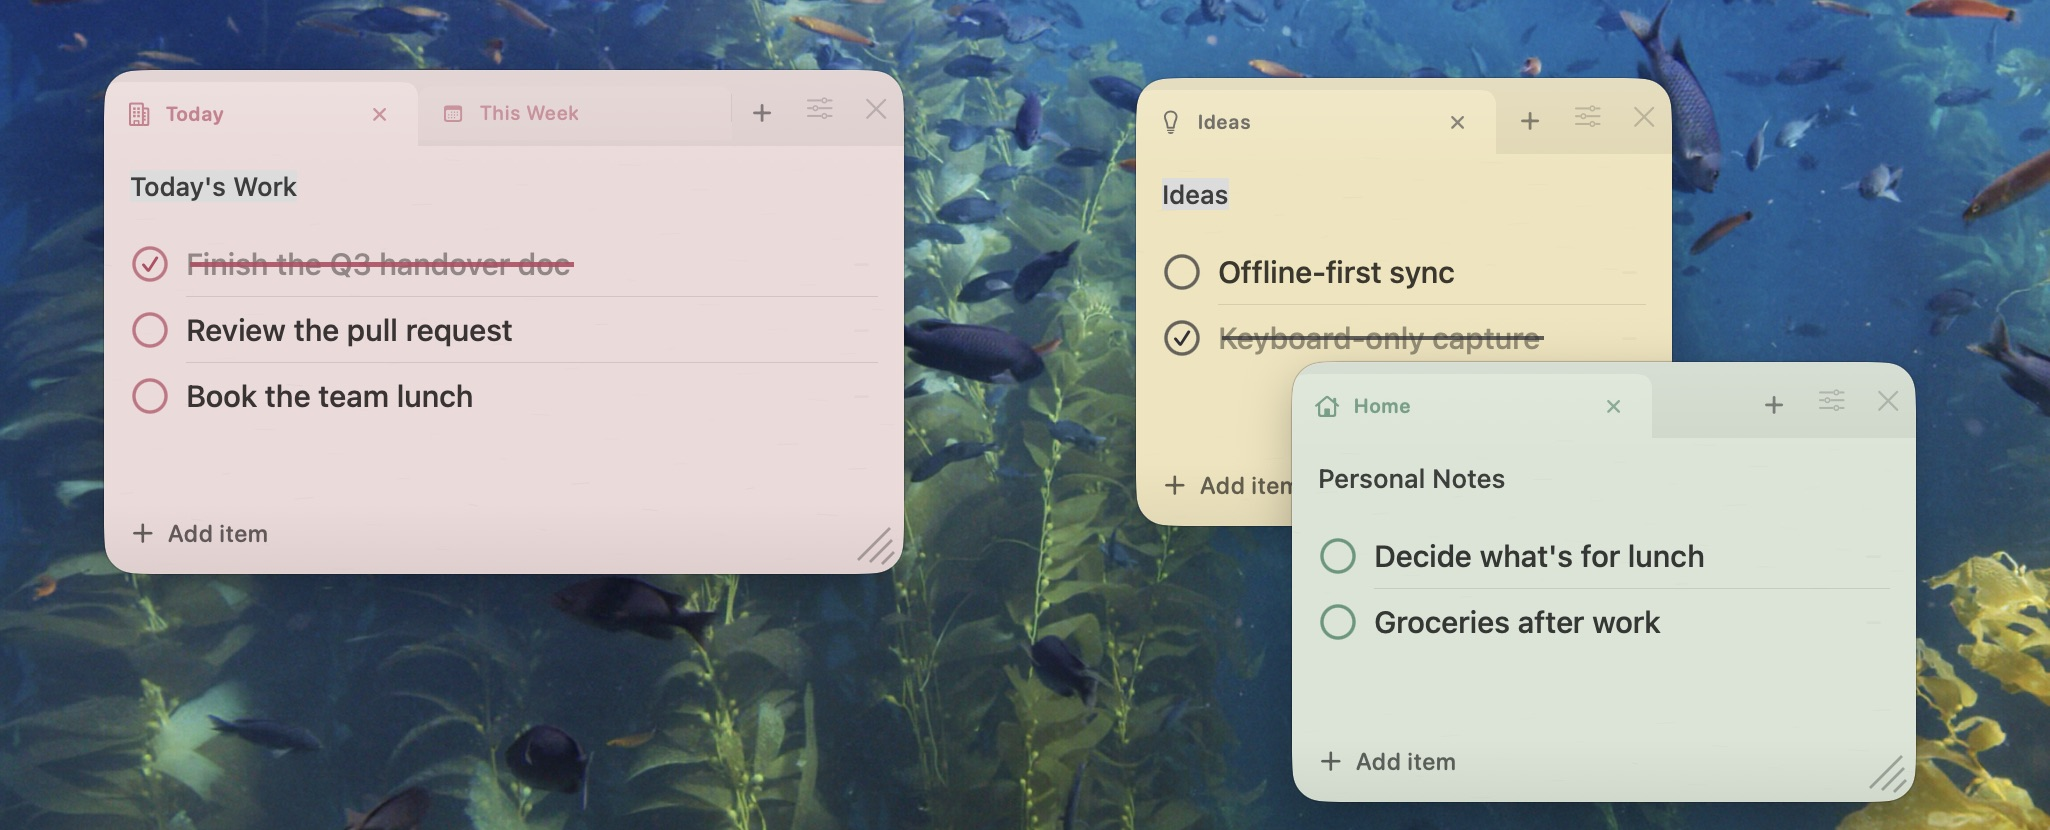
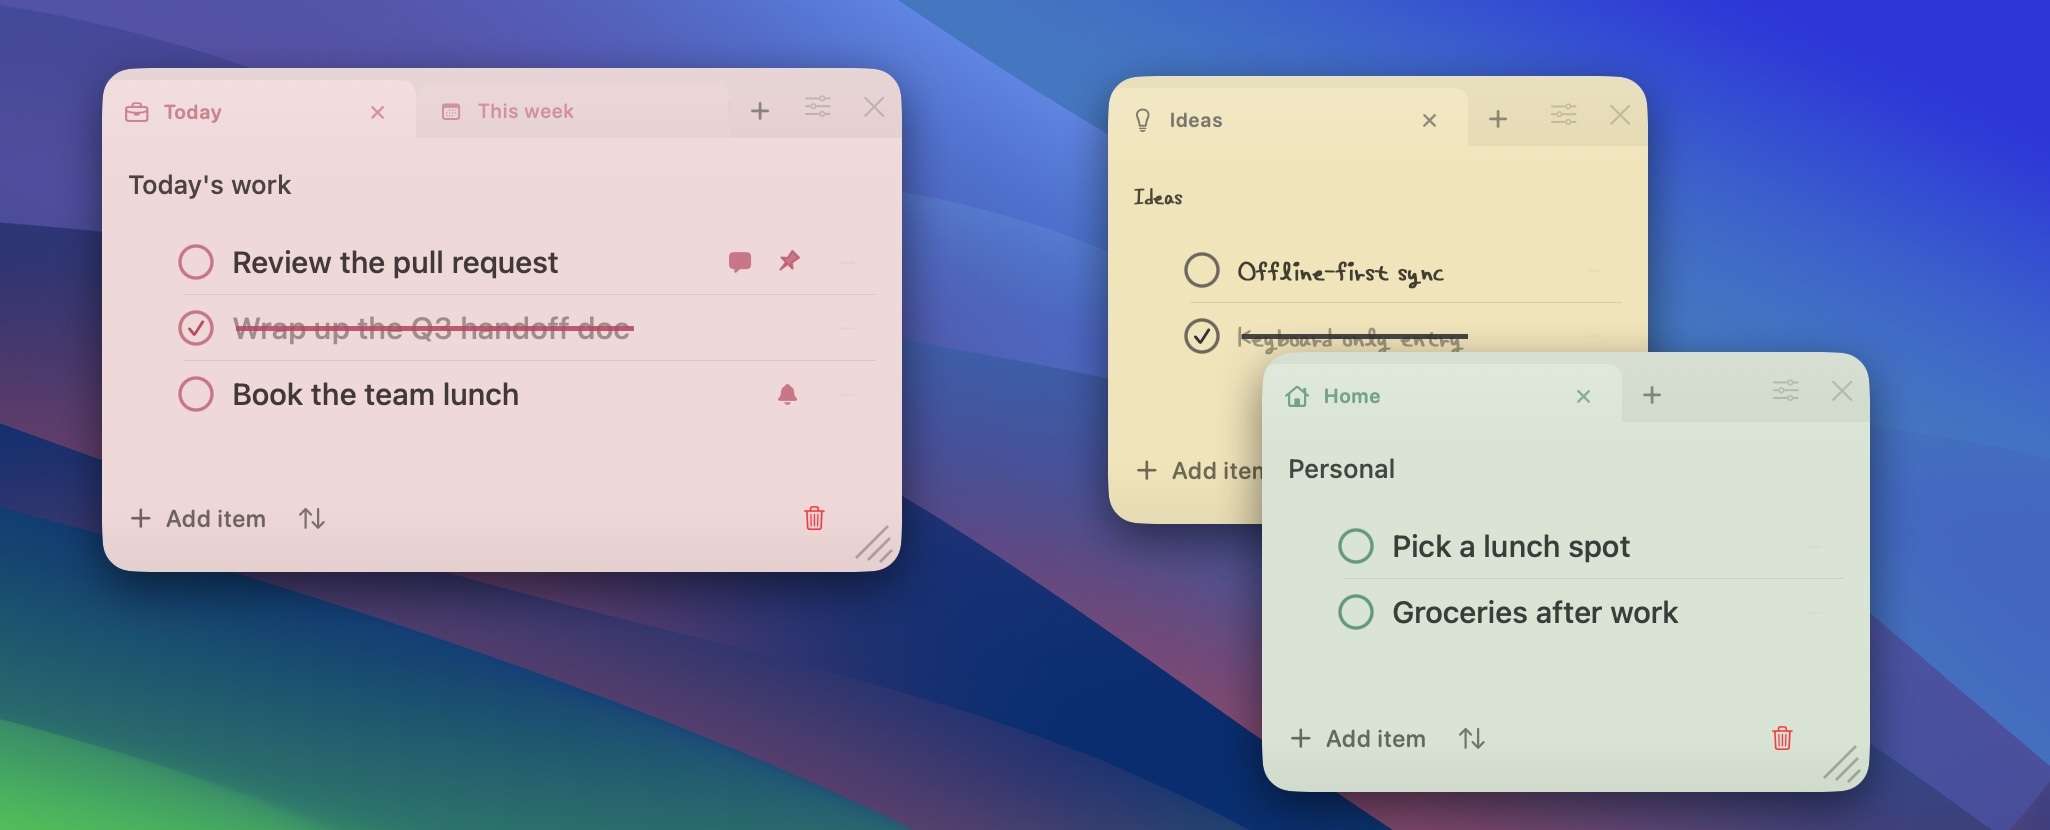
docs(readme): 스크린샷을 v0.2.0 화면으로 교체 + 코드와 어긋난 서술 정정
README 이미지가 출시될 화면과 달랐다. 메모 창과 바탕화면은 9/4(74af827, 93c451d), 설정 창은
8/29(a668d3f) 캡처라 종이의 대시 질감이 남아 있고(d97d869 에서 걷음), 할 일 행의 고정·세부사항·
알림 아이콘과 하단 정렬·휴지통 버튼이 없고, 설정에는 "표시 없음" 과 캡처 제외 토글이 없었다.
본문도 코드와 어긋난 곳이 있었다.

- 탭 바가 "폭을 균등하게 나눠 가로 스크롤이 없다" 고 적혀 있었다. 41fa5a5 부터 탭은 10개까지
  두고 넘치면 스크롤되며, 586d50f 부터 최소 너비에서는 탭 목록 메뉴로 접힌다
- 팝오버에 없는 "빠른 입력" 을 걷고 실제 항목(새 메모, 메모 보기, 앱 잠그기)을 적었다
- "설정은 작게 유지한다" 며 네 가지를 열거하던 문단을 지금의 여덟 섹션에 맞췄다
- 메뉴 막대 숫자 끄기(1783840), 메모를 겹쳐 탭 합치기(95375c0), 새 메모가 작업 중인 화면에
  뜨는 것(a4a9e77), 필통의 폰트·크기와 TTC 임포트(5d676a0), 휴지통 미리보기(0596336), 알림
  본문 설정의 실제 이름을 넣었다
- 흩어져 있던 단축키를 표 하나로 모았다. `NoteKeyboardShortcut` 과 메뉴 명령에 있는 것만 적었다
- 영어판 "pen case" 를 앱 표기(Pencil Case)에 맞추고 "Open folder" 를 버튼 이름 "Open Folder" 로

스크린샷은 실제 메모를 읽지도 쓰지도 않는 사본으로 찍었다. 스크래치 폴더의 소스에서 저장 경로를
임시 폴더로 고정하고, 예전 경로 이전을 끄고, 번들 ID 를 바꿔 설정 도메인을 분리한 Release 빌드에
데모 메모를 스크립트로 넣었다. 메모는 캡처 제외를 끈 채 창 단위(`screencapture -l -o`)로, 설정
창은 제외를 기본값(켬)으로 둔 채 찍었다 — 설정 창 자체는 제외 대상이 아니라 기본값 그대로 보여 줄
수 있다. 스크롤 막대는 데모 앱 도메인에만 `AppleShowScrollBars` 를 넣어 감췄다. 히어로는 세 창을
macOS 기본 배경화면(Sonoma 어두운 변형) 위에 합성했고, 모든 이미지를 sRGB 로 변환해 디스플레이
프로필을 뺐다. 메뉴 막대 아이콘 이미지는 9/4 이후 모양이 그대로라 두었다.

diff --git a/README.md b/README.md
@@ -60,42 +60,57 @@ step is unavoidable for anyone but the person who built the app.
 
 ### Memo windows
 
-<img src="docs/images/posteight-note-en.png" alt="A memo window with two tabs and a completed item struck through" width="300">
+<img src="docs/images/posteight-note-en.png" alt="A memo window with two tabs: a pinned task with a note, a completed task struck through, and a task with a reminder" width="300">
 
-Each memo is its own floating window that remembers where you put it. Inside, a compact
-tab bar splits the memo width evenly — no horizontal scrolling — so one window can hold
-several lists side by side.
+Each memo is its own floating window that remembers where you put it, across displays too.
+Inside, a compact tab bar holds up to ten lists: tabs share the width while they fit, the bar
+scrolls sideways when they don't, and at the narrowest size it folds into a menu of tabs.
 
-- Multiple independent, floating, resizable memo windows
-- Per-memo tabs, renamed inline by clicking the active tab again
+- Multiple independent, floating, resizable memo windows; a new one opens on the screen you are working on
+- Per-memo tabs, renamed inline by clicking the active tab again. Drop a memo onto another to merge their tabs
 - Checklists with an animated pen strike-through on completion
-- Paper colors, pen colors, pen styles, and per-tab icons, all set from the pen case
+- Paper and pen colors, nib, per-tab icons, and the memo's font and text size, all set from the pencil case
 - Closing a memo window — the close button or Esc — only hides it; the memo stays
-- Trash with restore and permanent-delete actions, emptying itself after 30 days
+- Trash with content previews, restore, and permanent delete, emptying itself after 30 days
 
 ### Menu bar
 
 <img src="docs/images/posteight-menubar.png" alt="The Posteight status item, an infinity loop that traces itself as items get done" width="44">
 
 Posteight has no main window. The status item is the only permanent surface: the 8 of
-Posteight drawn as a small infinity loop, with today's count beside it. The loop traces
-itself as items get done and completes when nothing is left. Clicking it opens the popover —
-quick capture, opening memo windows, hiding every memo at once, the trash, settings,
-and quit.
+Posteight drawn as a small infinity loop, with the number of remaining or finished tasks
+beside it — or no number at all. The loop traces itself as items get done and completes when
+nothing is left. Clicking it opens the popover — a new memo, search, showing or hiding every
+memo at once, the trash, locking the app when app lock is on, settings, and quit.
 
-Settings stay small: what the status item counts, whether notes float above other apps,
-whether memos stay out of screen shares and screenshots, and whether Posteight keeps a
-Dock icon. The Dock icon is on by default, so a running Posteight can be reached from the
-Dock and Command-Tab, and clicking it brings the memo windows back. Turning it off leaves
-a menu-bar-only app.
+Settings covers the language, what the status item counts, whether notes stay in front of
+other apps and out of screen shares and screenshots, whether reminders show task text, app
+lock, the default font, storage and backups, and whether Posteight keeps a Dock icon. The
+Dock icon is on by default, so a running Posteight can be reached from the Dock and
+Command-Tab, and clicking it brings the memo windows back. Turning it off leaves a
+menu-bar-only app.
 
 ### Search and organize
 
 - Choose **Search Notes…** in the menu bar to search names, titles, tasks, and details across all tabs. Click a result to open the matching location in its memo.
 - Drag task handles to reorder, or use the context menu to move tasks to another memo. Pin tasks to the top or sort by completion state.
-- Use Command-Z to undo and Shift-Command-Z to redo. Command-A and Command-C select and copy a whole tab when you are not editing a text field; active fields keep their own selection behavior.
-- Schedule reminders for individual tasks. Notifications require permission in the installed app, and task previews are hidden by default.
-- Choose a font and text size in Settings, or import your own font files.
+- Schedule reminders for individual tasks. Notifications require permission in the installed app. They show a short notice instead of the task text unless you turn on **Settings → Reminders → Show task text in notifications**.
+- Set the default font and text size in Settings, or pick a different font and size for one memo from its pencil case. Import your own TTF, OTF, or TTC font files.
+
+### Keyboard shortcuts
+
+| Keys | Action |
+| --- | --- |
+| Command-N | New memo |
+| Command-T | New tab in the current memo |
+| Command-Delete | Move the current tab to the Trash, after confirming |
+| Command-Z / Shift-Command-Z | Undo / redo across the whole memo |
+| Command-A, then Command-C | Select and copy the current tab |
+| Esc | Hide the memo |
+| Command-, | Settings |
+
+The memo shortcuts also work while a Korean input source is active. While you are editing a
+field, Command-A selects within that field only.
 
 ### Storage errors and backups
 
@@ -103,7 +118,7 @@ If saved files cannot be read or previous notes cannot be migrated, editing and 
 
 Successfully loaded notes are backed up to `backup.json` before the first save after launch. **Back Up Current Notes** replaces that backup with the current contents. **Restore Backup…** replaces notes and trash with the backup, archiving the original files in a `BeforeRestore-…` folder. A restore interrupted by quitting resumes on the next launch.
 
-Backups contain notes and trash, but not settings or font files. They stay in the same storage folder on this Mac and do not replace an external backup against disk failure. Backups and archived originals can retain deleted content beyond the trash's 30-day retention period. Delete unneeded `backup.json` and `BeforeRestore-…` folders through **Settings → App → Open folder**.
+Backups contain notes and trash, but not settings or font files. They stay in the same storage folder on this Mac and do not replace an external backup against disk failure. Backups and archived originals can retain deleted content beyond the trash's 30-day retention period. Delete unneeded `backup.json` and `BeforeRestore-…` folders through **Settings → App → Open Folder**.
 
 ### Language
 
@@ -122,7 +137,7 @@ The menus macOS draws itself — File, Edit, Window — still follow the system 
 Posteight runs in the App Sandbox, so your notes live inside its own container —
 `~/Library/Containers/com.younjiyoung.posteight/Data/Library/Application Support/Posteight/`.
 File permissions restrict reading and writing to your user account. Files are not encrypted; these permissions do not prevent access by other programs running as the same user.
-Settings → App → Open folder takes you there. Notes from versions before the sandbox are
+Settings → App → Open Folder takes you there. Notes from versions before the sandbox are
 copied over once, on first launch, and the old folder is left untouched.
 
 There is no account, no sync, and no telemetry. Export is explicit: Command-A selects the

diff --git a/README.ko.md b/README.ko.md
@@ -59,39 +59,55 @@ xattr -dr com.apple.quarantine /Applications/Posteight.app
 
 ### 메모 창
 
-<img src="docs/images/posteight-note-ko.png" alt="탭 두 개와 완료된 항목에 그어진 펜 줄이 보이는 메모 창" width="300">
+<img src="docs/images/posteight-note-ko.png" alt="탭 두 개와 세부사항이 달린 고정 항목, 펜 줄이 그어진 완료 항목, 알림을 예약한 항목이 보이는 메모 창" width="300">
 
-메모는 각자 떠 있는 창이고, 놓아둔 자리를 기억한다. 안쪽의 컴팩트한 탭 바는 메모 폭을
-균등하게 나눠 쓰기 때문에 가로 스크롤이 없다. 창 하나에 목록 여러 개를 나란히 둘 수 있다.
+메모는 각자 떠 있는 창이고, 놓아둔 자리를 기억한다. 모니터가 여러 대여도 마찬가지다. 안쪽의
+컴팩트한 탭 바에는 목록을 열 개까지 둘 수 있다. 탭은 들어가는 동안 폭을 나눠 쓰고, 넘치면 탭
+바가 옆으로 스크롤되며, 가장 좁게 줄이면 탭 목록 메뉴로 접힌다.
 
-- 독립적으로 떠 있고 크기를 조절할 수 있는 메모 창 여러 개
-- 메모마다 붙는 탭. 활성 탭을 한 번 더 누르면 그 자리에서 이름을 고친다
+- 독립적으로 떠 있고 크기를 조절할 수 있는 메모 창 여러 개. 새 메모는 지금 작업 중인 화면에 뜬다
+- 메모마다 붙는 탭. 활성 탭을 한 번 더 누르면 그 자리에서 이름을 고친다. 메모를 다른 메모 위에 놓으면 탭이 합쳐진다
 - 완료할 때 펜으로 줄을 긋는 애니메이션 체크리스트
-- 필통에서 고르는 종이 색, 펜 색, 펜 종류, 탭 아이콘
+- 필통에서 고르는 종이 색, 펜 색, 펜촉, 탭 아이콘, 메모의 폰트와 글자 크기
 - 메모 창을 닫아도 — 닫기 버튼이든 Esc 든 — 숨겨질 뿐 메모는 그대로 남는다
-- 복원과 영구 삭제가 되는 휴지통. 30일이 지난 항목은 알아서 사라진다
+- 내용 미리보기와 복원, 영구 삭제가 되는 휴지통. 30일이 지난 항목은 알아서 사라진다
 
 ### 메뉴 막대
 
 <img src="docs/images/posteight-menubar.png" alt="할 일이 끝날 때마다 이어서 그려지는 무한대 고리 모양의 Posteight 상태 아이템" width="44">
 
 Posteight 에는 메인 창이 없다. 상태 아이템이 유일한 상설 표면이다. Posteight 의 8 을 작은
-무한대 고리로 그리고, 그 옆에 오늘의 개수를 둔다. 할 일이 끝날 때마다 고리가 이어서 그려지고,
-남은 게 없으면 한 바퀴가 닫힌다. 누르면 팝오버가 열리고, 거기서 빠른 입력, 메모 창 열기,
-메모 검색, 모든 메모 숨기기, 휴지통, 설정, 종료로 간다.
+무한대 고리로 그리고, 그 옆에 남은 일이나 완료한 일의 개수를 둔다. 숫자 없이 고리만 둘 수도 있다.
+할 일이 끝날 때마다 고리가 이어서 그려지고, 남은 게 없으면 한 바퀴가 닫힌다. 누르면 팝오버가
+열리고, 거기서 새 메모, 메모 검색, 메모 보기, 모든 메모 숨기기, 휴지통, 앱 잠그기(앱 잠금을 켠
+경우), 설정, 종료로 간다.
 
-설정은 일부러 작게 유지한다. 상태 아이템이 무엇을 세는지, 메모를 다른 앱 위에 띄울지,
-화면 공유와 스크린샷에서 메모를 감출지, Dock 아이콘을 남길지. Dock 아이콘은 기본으로 켜져
-있어서 실행 중인 Posteight 를 Dock 과 Command-Tab 으로 부를 수 있고, 누르면 메모 창이 다시
-나온다. 끄면 메뉴 막대에만 사는 앱이 된다.
+설정에서는 언어, 상태 아이템이 세는 것, 메모를 다른 앱 위에 띄울지와 화면 공유·스크린샷에서
+감출지, 알림에 할 일 내용을 보일지, 앱 잠금, 기본 폰트, 저장과 백업, Dock 아이콘을 정한다.
+Dock 아이콘은 기본으로 켜져 있어서 실행 중인 Posteight 를 Dock 과 Command-Tab 으로 부를 수
+있고, 누르면 메모 창이 다시 나온다. 끄면 메뉴 막대에만 사는 앱이 된다.
 
 ### 검색과 목록 정리
 
 - 메뉴 막대 → **메모 검색…**에서 모든 탭의 이름·제목·할 일·세부사항을 찾는다. 결과를 누르면 해당 메모의 일치하는 위치로 이동한다.
 - 할 일의 손잡이를 끌어 순서를 바꾸거나, 우클릭 메뉴에서 다른 메모로 옮긴다. 상단 고정과 완료 상태별 정렬도 지원한다.
-- Command-Z로 편집을 취소하고 Shift-Command-Z로 다시 실행한다. 메모 창에서 Command-A, Command-C로 현재 탭 전체를 복사할 수 있다. 텍스트 편집 중에는 편집 중인 필드가 우선한다.
-- 할 일별로 알림 시간을 예약할 수 있다. 설치된 앱에서 알림 권한을 허용해야 하며, 알림 본문은 기본으로 감춘다.
-- 설정에서 글자 크기와 폰트를 고르고, 개인 폰트 파일을 추가할 수 있다.
+- 할 일별로 알림 시간을 예약할 수 있다. 설치된 앱에서 알림 권한을 허용해야 한다. 알림에는 할 일 내용 대신 짧은 안내만 뜨고, **설정 → 알림 → 알림 본문에 할 일 내용 표시**를 켜면 내용이 보인다.
+- 기본 폰트와 글자 크기는 설정에서 고르고, 메모마다 다른 폰트와 크기는 그 메모의 필통에서 고른다. TTF·OTF·TTC 폰트 파일을 직접 추가할 수 있다.
+
+### 단축키
+
+| 키 | 동작 |
+| --- | --- |
+| Command-N | 새 메모 |
+| Command-T | 현재 메모에 탭 추가 |
+| Command-Delete | 현재 탭을 휴지통으로 보내기 (확인 후) |
+| Command-Z / Shift-Command-Z | 메모 전체 실행 취소 / 다시 실행 |
+| Command-A → Command-C | 현재 탭 전체 선택 후 복사 |
+| Esc | 메모 숨기기 |
+| Command-, | 설정 |
+
+메모 창의 단축키는 한글 입력 상태에서도 동작한다. 입력칸을 편집하는 중에는 Command-A 가 그
+입력칸 안에서만 전체를 고른다.
 
 ### 저장 오류와 백업
 
